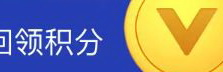
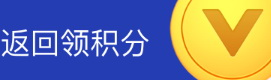
优化

diff --git a/alipay.js b/alipay.js
@@ -150,7 +150,7 @@ function view(title, num, close) {
         //按照返回按钮的颜色点击返回
         //cs_click(2, '#243db3', 0.8, 0.7, 0.1, 0.2)
         if (undefined != close) {
-            let no_image = find_images(6, './img/返回领积分按钮-.jpg')
+            let no_image = find_images(6, './img/返回领积分按钮.jpg', undefined, true)
             if (!no_image)
                 click_bounds(952, 1632, 1078, 1770) //识别不到图片就硬性点击按钮位置
         }
@@ -176,7 +176,7 @@ function do_task(title) {
     sleep(1000)
     //按照返回按钮的颜色点击返回
     //cs_click(2, '#243db3', 0.8, 0.4, 0.9, 0.8)
-    let no_image = find_images(6, './img/返回领积分按钮-.jpg')
+    let no_image = find_images(6, './img/返回领积分按钮.jpg', undefined, true)
     if (!no_image)
         click_bounds(952, 1632, 1078, 1770) //识别不到图片就硬性点击按钮位置
 
@@ -235,7 +235,7 @@ function alipay_points() {
         do_task('逛淘金币小镇领金币')
         sleep(3000)
         app.launch("com.eg.android.AlipayGphone")  //从淘宝切回支付宝
-        let no_image = find_images(6, './img/返回领积分按钮-.jpg')
+        let no_image = find_images(6, './img/返回领积分按钮.jpg', undefined, true)
         //sleep(2000)
         //if (!no_image)
         //    click_bounds(952, 1632, 1078, 1770) //识别不到图片就硬性点击按钮位置
@@ -333,7 +333,6 @@ function baba_farm_task() {
 function paopao() {
     for (let i = 0; i < 5; i++)
         find_images(3, './img/大气泡color.jpg', undefined, true)
-    //find_images(3, './img/大气泡-.jpg', undefined, undefined, 0.4)
 }
 
 function ant_forest_task() {
@@ -342,7 +341,7 @@ function ant_forest_task() {
     click_by_text('蚂蚁森林')
     sleep(3000)
     paopao()
-    find_images(3, './img/小气泡.jpg')
+    find_images(3, './img/小气泡.jpg', undefined, true)
     sleep(1000)
     let a = find_images(3, './img/保护地.jpg')
     if (!a) //如果没找到图片就直接点击位置
@@ -426,7 +425,7 @@ function taobao_farm_task() {
 function view_live() {
     let live = click_by_textcontains('看直播60秒') //看直播的按钮
     sleep(1000)
-    if (live == true) {
+    if (live) {
         while (true) {
             //if (id('gold_egg_image').exists()) { click_by_id('gold_egg_image'); console.log('点击金蛋领奖') }
             //翻倍操作
@@ -498,6 +497,7 @@ function get_remaining() {
     console.log('获取领奖剩余时间')
     let remaining = 0
     let a = className('android.view.View').depth(28).indexInParent(1).find()
+    console.log(a.length)
     try {
         var re = /\d{2}:\d{2}:\d{2}/
         a.forEach(element => {
@@ -506,12 +506,6 @@ function get_remaining() {
                 element.click()
                 view_live()
                 sleep(1000)
-                //进入了视频列表页面
-                if (!id('taolive_close_btn').exists()) {
-                    className('android.view.View').depth(25).indexInParent(1).findOne().click()
-                    sleep(1000)
-                    //click_by_text('观看')
-                }
                 throw new Error()
             }
             if (re.exec(element.text())) {
@@ -520,7 +514,9 @@ function get_remaining() {
             }
         });
         return -1 //没找到领奖标识，返回-1 
-    } catch (e) { }
+    } catch (e) {
+        console.log(e.msg)
+    }
     console.log('领奖剩余时间：' + remaining)
     return remaining
 }
@@ -533,22 +529,32 @@ function diantao_yuanbao() {
     sleep(5000)
     //click_by_id('hp3_tab_img')
     find_images(3, './img/元宝中心按钮.jpg', undefined, true)
-    sleep(3000)
-
+    sleep(4000)
+    let retry_count = 6
     while (true) {
         remaining = get_remaining()
         if (remaining == 0)
             remaining = get_remaining()
-        else if (remaining == -1)
-            break //没找到领奖标志，就退出
+        else if (remaining == -1) {
+            retry_count--
+            sleep(1000)
+            if (retry_count < 0)
+                break //没找到领奖标志，就退出
+        }
         else {
             let start = Date.parse(new Date()) / 1000  //开始计时
 
             //返回视频列表
             if (!id('taolive_close_btn').exists()) {
-                className('android.view.View').depth(25).indexInParent(1).findOne().click()
+                if (className('android.view.View').depth(25).indexInParent(1).findOne())
+                    className('android.view.View').depth(25).indexInParent(1).findOne().click()
+                /*
                 sleep(1000)
-                //click_by_text('观看')
+                if (className('android.widget.FrameLayout').depth(23).indexInParent(1).findOne())
+                    className('android.widget.FrameLayout').depth(23).indexInParent(1).findOne().click()
+                */
+                sleep(1000)
+                click_by_text('观看')
             }
             ii = 0
             jj = 0

diff --git a/多点抢券.js b/多点抢券.js
@@ -1,0 +1,72 @@
+auto()
+
+requestScreenCapture(false)
+
+//点击控件所在坐标
+function btn_position_click(x) { if (x) click(x.bounds().centerX(), x.bounds().centerY()) }
+
+// 按desc文本查找按钮，并点击
+function click_by_desc(txt) {
+    let btn = desc(txt).findOne(5000);
+    if (!btn) {
+        console.log('没找到‘' + txt + '’按钮')
+        return;
+    }
+    btn_position_click(btn)
+}
+
+// 按id文本查找按钮，并点击
+function click_by_id(id_str) {
+    let btn = id(id_str).findOne(5000);
+    if (!btn) {
+        console.log('没找到‘' + id_str + '’按钮')
+        return;
+    }
+    btn_position_click(btn)
+}
+
+//在屏幕上匹配图片，匹配到就点击
+function find_images(num, img_file, flipup, threshold) {
+    let templ = images.read(img_file);
+    //toast_console('color:' + color + ';threshold:' + threshold)
+    while (num--) {
+        let img = captureScreen()
+        if (flipup != undefined) img = images.rotate(img, 180)
+        if (threshold != undefined) threshold = 0.9
+        else
+            threshold = threshold
+        let point = findImage(img, templ, {
+            threshold: threshold //图片相似度
+        })
+        if (point) {
+            if (flipup != undefined) {
+                point.x = img.getWidth() - point.x; point.y = img.getHeight() - point.y
+            }
+            console.log('找到了‘' + img_file + '’图片');
+            return click(point.x, point.y);
+        }
+        if (num) sleep(500)
+    }
+    console.log('没找到‘' + img_file + '’图片');
+    return false
+}
+
+app.launch('com.wm.dmall')
+sleep(2000)
+
+//关闭广告
+//if (!click_by_desc('多点')) click_by_id('com.wm.dmall:id/iv_close')
+//sleep(2000)
+
+while (true) {
+    find_images(3, './img/多点券.jpg')
+    var find1 = find_images(3, './img/多点券-未抢到.jpg')
+    if (!find1) {
+        while (true) {
+            find_images(3, './img/多点券2.jpg')
+            var find2 = find_images(3, './img/多点券-未抢到.jpg')
+            if (find2)
+                exit()
+        }
+    }
+}

diff --git a/tools/findColor.js b/tools/findColor.js
@@ -6,7 +6,7 @@ auto()
 
 requestScreenCapture(false)
 //设置查找颜色的区域
-var rangPoint = [294, 690, 366, 760]
+var rangPoint = [255, 1195, 350, 1296]
 
 function getColor() {
     let img = captureScreen()
@@ -19,6 +19,7 @@ function getColor() {
             if (null != point) {
                 //console.log(point)
                 if (point.x == i && point.y == j) {
+                    console.log(point)
                     console.log('找到了颜色值：' + colors.toString(pColor))
                     return
                 }
